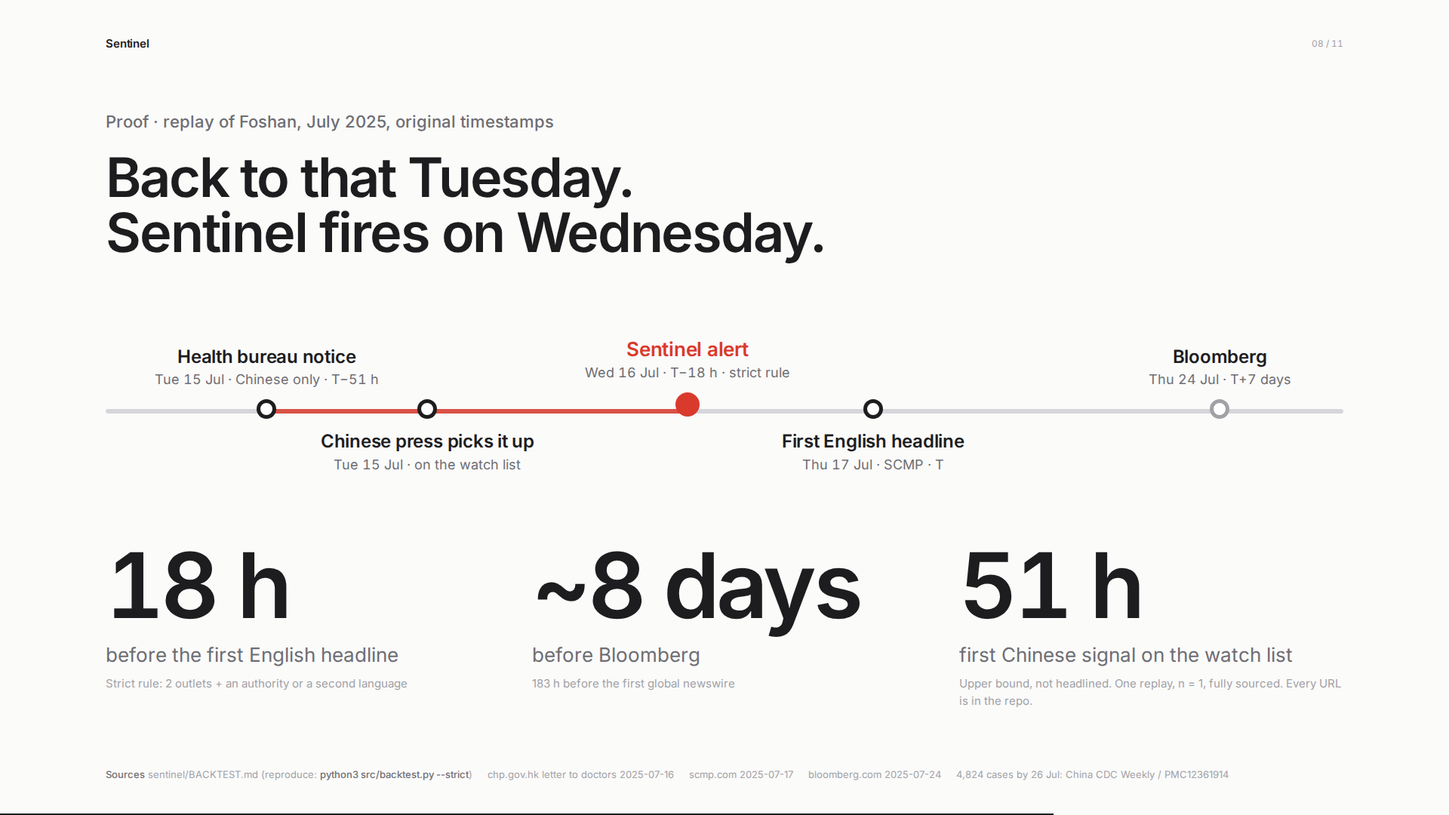
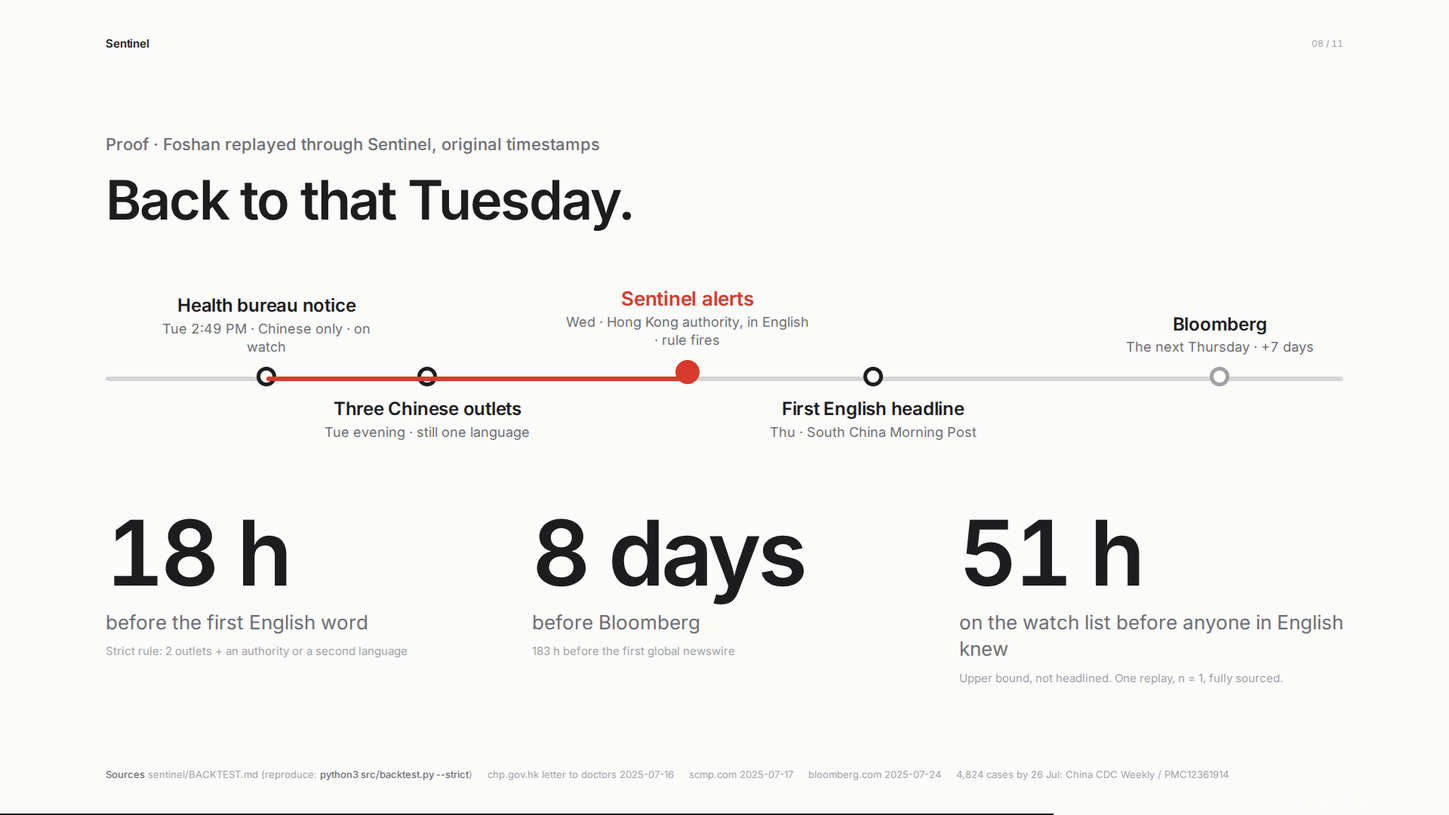
Deck: Keynote-style builds; dramatic Foshan backtest reveal; script beats
Claude-Session: https://claude.ai/code/session_01FUCurQPFnAXBDdE5fg9zhM

diff --git a/pitch/deck.html b/pitch/deck.html
@@ -116,6 +116,15 @@
   .impl ul { list-style: none; margin: 0; padding: 0; }
   .impl li { font-size: 21px; line-height: 1.4; color: var(--ink-2); padding: 13px 0; border-top: 1px solid var(--line); }
   .impl li b { color: var(--ink); font-weight: 600; }
+  /* builds */
+  .slide .b { opacity: 0; transform: translateY(10px); transition: opacity .35s ease, transform .35s ease; }
+  .slide .b.in { opacity: 1; transform: none; }
+  .slide .pt.b { transform: translateX(-50%) translateY(10px); }
+  .slide .pt.b.in { transform: translateX(-50%); }
+  .slide .axis .span.b { transform: scaleX(0); transform-origin: left; transition: transform .9s cubic-bezier(.2,.7,.2,1), opacity .2s; }
+  .slide .axis .span.b.in { transform: scaleX(1); }
+  .slide .lead .b { transition-duration: .5s; }
+  @media (prefers-reduced-motion: reduce) { .slide .b { transition: none; } }
   /* 7 */
   .bt { margin-top: 48px; }
   .axis { position: relative; height: 300px; }
@@ -182,9 +191,9 @@ And every insurer with travel, A&amp;H or supply-chain exposure in Guangdong fou
       <div class="zh">478 confirmed cases of chikungunya, a mosquito-borne virus. The Shunde District Health Bureau posts it. Nobody outside China reads it.</div>
     </div>
     <div class="steps">
-      <div class="step"><div class="t">T + 0 h</div><div class="w">District health bureau notice. <i>Chinese only.</i></div></div>
-      <div class="step"><div class="t">T + 51 h</div><div class="w">First English headline.</div></div>
-      <div class="step hot"><div class="t">T + 9 days</div><div class="w">Bloomberg. <i>This is when the insurance industry found out.</i></div></div>
+      <div class="step b"><div class="t">T + 0 h</div><div class="w">District health bureau notice. <i>Chinese only.</i></div></div>
+      <div class="step b"><div class="t">T + 51 h</div><div class="w">First English headline.</div></div>
+      <div class="step hot b"><div class="t">T + 9 days</div><div class="w">Bloomberg. <i>This is when the insurance industry found out.</i></div></div>
     </div>
   </div>
   <div class="foot"><span><b>Sources</b> Shunde District Health Bureau notice, 15 Jul 2025 (quoted by chinanews.com.cn, 2025-07-15 08:40 UTC)</span><span>First English mainstream: SCMP, 2025-07-17 10:00 UTC</span><span>Bloomberg, 24 Jul 2025 (GDELT first-seen)</span><span>Timeline: sentinel/BACKTEST.md</span></div>
@@ -314,28 +323,38 @@ Seven public feeds, all free, the ones the professionals actually watch: the Hur
   <div class="foot"><span><b>Sources</b> sentinel/src/feeds.py (feed list)</span><span>sentinel/README.md (stack)</span><span>sentinel/CONTRACT.md (data contract)</span></div>
 </section>
 
-<section class="slide" data-n="8" data-notes="Does it beat the headlines? We replayed Foshan with the original timestamps. Under our strict rule (two independent outlets plus an authority or a second language) Sentinel fires 18 hours before the first English headline and about eight days before Bloomberg. The first Chinese signal was on the watch list 51 hours out. One replay, fully sourced, reproducible from the repo.">
+<section class="slide" data-n="8" data-notes="[Slide opens EMPTY except the headline. Each → adds a beat. Speak slowly.]
+
+Let&#x27;s go back to that Tuesday and replay it, with the original timestamps, through Sentinel.
+
+→ Tuesday afternoon. The notice goes up. Chinese only. Sentinel puts it on the watch list. Nobody is alerted yet, because one source is not enough.
+→ Tuesday evening. Three Chinese outlets pick it up. Still one language. Still watching.
+→ Wednesday afternoon. Hong Kong&#x27;s health authority writes to its doctors, in English. Second language, an authority. The rule fires. [Pause.] Sentinel alerts.
+→ Thursday. The first English headline.
+→ [Pause.] And the following Thursday: Bloomberg. That&#x27;s when the industry found out.
+→ Eighteen hours before the first English word. Eight days before Bloomberg. And it was on the watch list fifty-one hours out. One replay, every URL in the repo, reproduce it with one command.">
   <div class="mark">Sentinel</div>
   <div class="num">08 / 11</div>
-  <p class="kicker">Proof · replay of Foshan, July 2025, original timestamps</p>
-  <h1 class="mid">Back to that Tuesday. Sentinel fires on Wednesday.</h1>
+  <p class="kicker">Proof · Foshan replayed through Sentinel, original timestamps</p>
+  <h1 class="mid">Back to that Tuesday.</h1>
   <div class="bt">
     <div class="axis">
-      <div class="span" style="left:13%;width:34%"></div>
-      <div class="pt above" style="left:13%"><div class="w">Health bureau notice</div><div class="t">Tue 15 Jul · Chinese only · T−51 h</div><div class="dot"></div></div>
-      <div class="pt below" style="left:26%"><div class="dot"></div><div class="w">Chinese press picks it up</div><div class="t">Tue 15 Jul · on the watch list</div></div>
-      <div class="pt sig above" style="left:47%"><div class="w">Sentinel alert</div><div class="t">Wed 16 Jul · T−18 h · strict rule</div><div class="dot"></div></div>
-      <div class="pt below" style="left:62%"><div class="dot"></div><div class="w">First English headline</div><div class="t">Thu 17 Jul · SCMP · T</div></div>
-      <div class="pt above faint" style="left:90%"><div class="w">Bloomberg</div><div class="t">Thu 24 Jul · T+7 days</div><div class="dot"></div></div>
-    </div>
+      <div class="pt above b" style="left:13%"><div class="w">Health bureau notice</div><div class="t">Tue 2:49 PM · Chinese only · on watch</div><div class="dot"></div></div>
+      <div class="pt below b" style="left:26%"><div class="dot"></div><div class="w">Three Chinese outlets</div><div class="t">Tue evening · still one language</div></div>
+      <div class="pt sig above b" style="left:47%"><div class="w">Sentinel alerts</div><div class="t">Wed · Hong Kong authority, in English · rule fires</div><div class="dot"></div></div>
+      <div class="span b" style="left:13%;width:34%"></div>
+      <div class="pt below b" style="left:62%"><div class="dot"></div><div class="w">First English headline</div><div class="t">Thu · South China Morning Post</div></div>
+      <div class="pt above faint b" style="left:90%"><div class="w">Bloomberg</div><div class="t">The next Thursday · +7 days</div><div class="dot"></div></div>
+</div>
     <div class="lead">
-      <div><div class="n">18 h</div><div class="cap">before the first English headline</div><div class="src">Strict rule: 2 outlets + an authority or a second language</div></div>
-      <div><div class="n">~8 days</div><div class="cap">before Bloomberg</div><div class="src">183 h before the first global newswire</div></div>
-      <div><div class="n">51 h</div><div class="cap">first Chinese signal on the watch list</div><div class="src">Upper bound, not headlined. One replay, n = 1, fully sourced. Every URL is in the repo.</div></div>
+      <div class="b"><div class="n">18 h</div><div class="cap">before the first English word</div><div class="src">Strict rule: 2 outlets + an authority or a second language</div></div>
+      <div class="b"><div class="n">8 days</div><div class="cap">before Bloomberg</div><div class="src">183 h before the first global newswire</div></div>
+      <div class="b"><div class="n">51 h</div><div class="cap">on the watch list before anyone in English knew</div><div class="src">Upper bound, not headlined. One replay, n = 1, fully sourced.</div></div>
     </div>
   </div>
   <div class="foot"><span><b>Sources</b> sentinel/BACKTEST.md (reproduce: <b>python3 src/backtest.py --strict</b>)</span><span>chp.gov.hk letter to doctors 2025-07-16</span><span>scmp.com 2025-07-17</span><span>bloomberg.com 2025-07-24</span><span>4,824 cases by 26 Jul: China CDC Weekly / PMC12361914</span></div>
 </section>
+
 
 <!-- 8 · WHY NOW / WHY CHUBB -->
 <section class="slide" data-n="9" data-notes="Why now? Chubb&#x27;s own shareholder letter says it&#x27;s investing in data and AI to get faster in underwriting and claims. And a language model can now read a Chinese bulletin and an NHC advisory in one pass, for cents. Sentinel sits on top of the feeds Chubb already buys, inside Chubb&#x27;s own cloud. Exposure data never leaves.">
@@ -410,10 +429,17 @@ Thank you.
   function show(n) {
     i = Math.max(0, Math.min(slides.length - 1, n));
     slides.forEach((s, k) => s.classList.toggle('on', k === i));
+    if (n !== undefined) slides[i].querySelectorAll('.b').forEach(e => e.classList.remove('in'));
     bar.style.width = ((i + 1) / slides.length * 100) + '%';
     history.replaceState(null, '', '#' + (i + 1));
     if (typeof paintNotes === 'function') paintNotes();
   }
+
+  // builds: reveal .b elements in order before advancing
+  function pending() { return [...slides[i].querySelectorAll('.b:not(.in)')]; }
+  function shown() { return [...slides[i].querySelectorAll('.b.in')]; }
+  function next() { const p = pending(); if (p.length) { p[0].classList.add('in'); paintNotes(); } else show(i + 1); }
+  function prev() { const sh = shown(); if (sh.length) { sh[sh.length - 1].classList.remove('in'); } else { show(i - 1); slides[i].querySelectorAll('.b').forEach(e => e.classList.add('in')); } }
   function fit() {
     const s = Math.min(innerWidth / 1920, innerHeight / 1080);
     document.getElementById('stage').style.setProperty('--s', s);
@@ -429,7 +455,7 @@ Thank you.
 .h{display:flex;justify-content:space-between;color:#8e8e93;font-size:18px;margin-bottom:24px}.h b{color:#fff;font-size:64px;font-variant-numeric:tabular-nums}
 pre{white-space:pre-wrap;font:inherit;margin:0}.nx{margin-top:36px;padding-top:18px;border-top:1px solid #333;color:#8e8e93;font-size:20px}
 .k{position:fixed;bottom:16px;left:56px;color:#555;font-size:14px}</style>
-<div class=h><div>Slide <b>${i+1}</b> / 11</div><div id=c style="font-size:64px;color:#fff;font-variant-numeric:tabular-nums">0:00</div></div>
+<div class=h><div>Slide <b>${i+1}</b> / 11 ${pending().length ? '· <span style="color:#d93a2b">' + pending().length + ' builds left (→)</span>' : ''}</div><div id=c style="font-size:64px;color:#fff;font-variant-numeric:tabular-nums">0:00</div></div>
 <pre>${t}</pre><div class=nx>Next: ${nx.replace(/</g,'&lt;')}</div>
 <div class=k>Timer starts when this window opens · marks: 1:05 leave slide 3 · 2:00 back on deck · 2:50 the ask</div>`;
   }
@@ -438,8 +464,8 @@ pre{white-space:pre-wrap;font:inherit;margin:0}.nx{margin-top:36px;padding-top:1
   function openNotes() { pw = window.open('', 'sentinel-presenter', 'width=900,height=700'); if (pw) { pw.__t0 = pw.__t0 || Date.now(); paintNotes(); } }
   addEventListener('resize', fit); fit(); show(i);
   addEventListener('keydown', e => {
-    if (['ArrowRight', ' ', 'PageDown', 'Enter'].includes(e.key)) { e.preventDefault(); show(i + 1); }
-    else if (['ArrowLeft', 'PageUp', 'Backspace'].includes(e.key)) { e.preventDefault(); show(i - 1); }
+    if (['ArrowRight', ' ', 'PageDown', 'Enter'].includes(e.key)) { e.preventDefault(); next(); }
+    else if (['ArrowLeft', 'PageUp', 'Backspace'].includes(e.key)) { e.preventDefault(); prev(); }
     else if (e.key === 'Home') show(0);
     else if (e.key === 'End') show(slides.length - 1);
     else if (e.key.toLowerCase() === 'f') { document.fullscreenElement ? document.exitFullscreen() : document.documentElement.requestFullscreen(); }
@@ -447,7 +473,7 @@ pre{white-space:pre-wrap;font:inherit;margin:0}.nx{margin-top:36px;padding-top:1
     else if (e.key === '0') show(10);
     else if (e.key.toLowerCase() === 'n') openNotes();
   });
-  addEventListener('click', e => { if (e.clientX > innerWidth * 0.66) show(i + 1); else if (e.clientX < innerWidth * 0.2) show(i - 1); });
+  addEventListener('click', e => { if (e.clientX > innerWidth * 0.66) next(); else if (e.clientX < innerWidth * 0.2) prev(); });
   window.deckGo = show;
 })();
 </script>

diff --git a/sentinel/ui/deck/index.html b/sentinel/ui/deck/index.html
@@ -116,6 +116,15 @@
   .impl ul { list-style: none; margin: 0; padding: 0; }
   .impl li { font-size: 21px; line-height: 1.4; color: var(--ink-2); padding: 13px 0; border-top: 1px solid var(--line); }
   .impl li b { color: var(--ink); font-weight: 600; }
+  /* builds */
+  .slide .b { opacity: 0; transform: translateY(10px); transition: opacity .35s ease, transform .35s ease; }
+  .slide .b.in { opacity: 1; transform: none; }
+  .slide .pt.b { transform: translateX(-50%) translateY(10px); }
+  .slide .pt.b.in { transform: translateX(-50%); }
+  .slide .axis .span.b { transform: scaleX(0); transform-origin: left; transition: transform .9s cubic-bezier(.2,.7,.2,1), opacity .2s; }
+  .slide .axis .span.b.in { transform: scaleX(1); }
+  .slide .lead .b { transition-duration: .5s; }
+  @media (prefers-reduced-motion: reduce) { .slide .b { transition: none; } }
   /* 7 */
   .bt { margin-top: 48px; }
   .axis { position: relative; height: 300px; }
@@ -182,9 +191,9 @@ And every insurer with travel, A&amp;H or supply-chain exposure in Guangdong fou
       <div class="zh">478 confirmed cases of chikungunya, a mosquito-borne virus. The Shunde District Health Bureau posts it. Nobody outside China reads it.</div>
     </div>
     <div class="steps">
-      <div class="step"><div class="t">T + 0 h</div><div class="w">District health bureau notice. <i>Chinese only.</i></div></div>
-      <div class="step"><div class="t">T + 51 h</div><div class="w">First English headline.</div></div>
-      <div class="step hot"><div class="t">T + 9 days</div><div class="w">Bloomberg. <i>This is when the insurance industry found out.</i></div></div>
+      <div class="step b"><div class="t">T + 0 h</div><div class="w">District health bureau notice. <i>Chinese only.</i></div></div>
+      <div class="step b"><div class="t">T + 51 h</div><div class="w">First English headline.</div></div>
+      <div class="step hot b"><div class="t">T + 9 days</div><div class="w">Bloomberg. <i>This is when the insurance industry found out.</i></div></div>
     </div>
   </div>
   <div class="foot"><span><b>Sources</b> Shunde District Health Bureau notice, 15 Jul 2025 (quoted by chinanews.com.cn, 2025-07-15 08:40 UTC)</span><span>First English mainstream: SCMP, 2025-07-17 10:00 UTC</span><span>Bloomberg, 24 Jul 2025 (GDELT first-seen)</span><span>Timeline: sentinel/BACKTEST.md</span></div>
@@ -314,28 +323,38 @@ Seven public feeds, all free, the ones the professionals actually watch: the Hur
   <div class="foot"><span><b>Sources</b> sentinel/src/feeds.py (feed list)</span><span>sentinel/README.md (stack)</span><span>sentinel/CONTRACT.md (data contract)</span></div>
 </section>
 
-<section class="slide" data-n="8" data-notes="Does it beat the headlines? We replayed Foshan with the original timestamps. Under our strict rule (two independent outlets plus an authority or a second language) Sentinel fires 18 hours before the first English headline and about eight days before Bloomberg. The first Chinese signal was on the watch list 51 hours out. One replay, fully sourced, reproducible from the repo.">
+<section class="slide" data-n="8" data-notes="[Slide opens EMPTY except the headline. Each → adds a beat. Speak slowly.]
+
+Let&#x27;s go back to that Tuesday and replay it, with the original timestamps, through Sentinel.
+
+→ Tuesday afternoon. The notice goes up. Chinese only. Sentinel puts it on the watch list. Nobody is alerted yet, because one source is not enough.
+→ Tuesday evening. Three Chinese outlets pick it up. Still one language. Still watching.
+→ Wednesday afternoon. Hong Kong&#x27;s health authority writes to its doctors, in English. Second language, an authority. The rule fires. [Pause.] Sentinel alerts.
+→ Thursday. The first English headline.
+→ [Pause.] And the following Thursday: Bloomberg. That&#x27;s when the industry found out.
+→ Eighteen hours before the first English word. Eight days before Bloomberg. And it was on the watch list fifty-one hours out. One replay, every URL in the repo, reproduce it with one command.">
   <div class="mark">Sentinel</div>
   <div class="num">08 / 11</div>
-  <p class="kicker">Proof · replay of Foshan, July 2025, original timestamps</p>
-  <h1 class="mid">Back to that Tuesday. Sentinel fires on Wednesday.</h1>
+  <p class="kicker">Proof · Foshan replayed through Sentinel, original timestamps</p>
+  <h1 class="mid">Back to that Tuesday.</h1>
   <div class="bt">
     <div class="axis">
-      <div class="span" style="left:13%;width:34%"></div>
-      <div class="pt above" style="left:13%"><div class="w">Health bureau notice</div><div class="t">Tue 15 Jul · Chinese only · T−51 h</div><div class="dot"></div></div>
-      <div class="pt below" style="left:26%"><div class="dot"></div><div class="w">Chinese press picks it up</div><div class="t">Tue 15 Jul · on the watch list</div></div>
-      <div class="pt sig above" style="left:47%"><div class="w">Sentinel alert</div><div class="t">Wed 16 Jul · T−18 h · strict rule</div><div class="dot"></div></div>
-      <div class="pt below" style="left:62%"><div class="dot"></div><div class="w">First English headline</div><div class="t">Thu 17 Jul · SCMP · T</div></div>
-      <div class="pt above faint" style="left:90%"><div class="w">Bloomberg</div><div class="t">Thu 24 Jul · T+7 days</div><div class="dot"></div></div>
-    </div>
+      <div class="pt above b" style="left:13%"><div class="w">Health bureau notice</div><div class="t">Tue 2:49 PM · Chinese only · on watch</div><div class="dot"></div></div>
+      <div class="pt below b" style="left:26%"><div class="dot"></div><div class="w">Three Chinese outlets</div><div class="t">Tue evening · still one language</div></div>
+      <div class="pt sig above b" style="left:47%"><div class="w">Sentinel alerts</div><div class="t">Wed · Hong Kong authority, in English · rule fires</div><div class="dot"></div></div>
+      <div class="span b" style="left:13%;width:34%"></div>
+      <div class="pt below b" style="left:62%"><div class="dot"></div><div class="w">First English headline</div><div class="t">Thu · South China Morning Post</div></div>
+      <div class="pt above faint b" style="left:90%"><div class="w">Bloomberg</div><div class="t">The next Thursday · +7 days</div><div class="dot"></div></div>
+</div>
     <div class="lead">
-      <div><div class="n">18 h</div><div class="cap">before the first English headline</div><div class="src">Strict rule: 2 outlets + an authority or a second language</div></div>
-      <div><div class="n">~8 days</div><div class="cap">before Bloomberg</div><div class="src">183 h before the first global newswire</div></div>
-      <div><div class="n">51 h</div><div class="cap">first Chinese signal on the watch list</div><div class="src">Upper bound, not headlined. One replay, n = 1, fully sourced. Every URL is in the repo.</div></div>
+      <div class="b"><div class="n">18 h</div><div class="cap">before the first English word</div><div class="src">Strict rule: 2 outlets + an authority or a second language</div></div>
+      <div class="b"><div class="n">8 days</div><div class="cap">before Bloomberg</div><div class="src">183 h before the first global newswire</div></div>
+      <div class="b"><div class="n">51 h</div><div class="cap">on the watch list before anyone in English knew</div><div class="src">Upper bound, not headlined. One replay, n = 1, fully sourced.</div></div>
     </div>
   </div>
   <div class="foot"><span><b>Sources</b> sentinel/BACKTEST.md (reproduce: <b>python3 src/backtest.py --strict</b>)</span><span>chp.gov.hk letter to doctors 2025-07-16</span><span>scmp.com 2025-07-17</span><span>bloomberg.com 2025-07-24</span><span>4,824 cases by 26 Jul: China CDC Weekly / PMC12361914</span></div>
 </section>
+
 
 <!-- 8 · WHY NOW / WHY CHUBB -->
 <section class="slide" data-n="9" data-notes="Why now? Chubb&#x27;s own shareholder letter says it&#x27;s investing in data and AI to get faster in underwriting and claims. And a language model can now read a Chinese bulletin and an NHC advisory in one pass, for cents. Sentinel sits on top of the feeds Chubb already buys, inside Chubb&#x27;s own cloud. Exposure data never leaves.">
@@ -410,10 +429,17 @@ Thank you.
   function show(n) {
     i = Math.max(0, Math.min(slides.length - 1, n));
     slides.forEach((s, k) => s.classList.toggle('on', k === i));
+    if (n !== undefined) slides[i].querySelectorAll('.b').forEach(e => e.classList.remove('in'));
     bar.style.width = ((i + 1) / slides.length * 100) + '%';
     history.replaceState(null, '', '#' + (i + 1));
     if (typeof paintNotes === 'function') paintNotes();
   }
+
+  // builds: reveal .b elements in order before advancing
+  function pending() { return [...slides[i].querySelectorAll('.b:not(.in)')]; }
+  function shown() { return [...slides[i].querySelectorAll('.b.in')]; }
+  function next() { const p = pending(); if (p.length) { p[0].classList.add('in'); paintNotes(); } else show(i + 1); }
+  function prev() { const sh = shown(); if (sh.length) { sh[sh.length - 1].classList.remove('in'); } else { show(i - 1); slides[i].querySelectorAll('.b').forEach(e => e.classList.add('in')); } }
   function fit() {
     const s = Math.min(innerWidth / 1920, innerHeight / 1080);
     document.getElementById('stage').style.setProperty('--s', s);
@@ -429,7 +455,7 @@ Thank you.
 .h{display:flex;justify-content:space-between;color:#8e8e93;font-size:18px;margin-bottom:24px}.h b{color:#fff;font-size:64px;font-variant-numeric:tabular-nums}
 pre{white-space:pre-wrap;font:inherit;margin:0}.nx{margin-top:36px;padding-top:18px;border-top:1px solid #333;color:#8e8e93;font-size:20px}
 .k{position:fixed;bottom:16px;left:56px;color:#555;font-size:14px}</style>
-<div class=h><div>Slide <b>${i+1}</b> / 11</div><div id=c style="font-size:64px;color:#fff;font-variant-numeric:tabular-nums">0:00</div></div>
+<div class=h><div>Slide <b>${i+1}</b> / 11 ${pending().length ? '· <span style="color:#d93a2b">' + pending().length + ' builds left (→)</span>' : ''}</div><div id=c style="font-size:64px;color:#fff;font-variant-numeric:tabular-nums">0:00</div></div>
 <pre>${t}</pre><div class=nx>Next: ${nx.replace(/</g,'&lt;')}</div>
 <div class=k>Timer starts when this window opens · marks: 1:05 leave slide 3 · 2:00 back on deck · 2:50 the ask</div>`;
   }
@@ -438,8 +464,8 @@ pre{white-space:pre-wrap;font:inherit;margin:0}.nx{margin-top:36px;padding-top:1
   function openNotes() { pw = window.open('', 'sentinel-presenter', 'width=900,height=700'); if (pw) { pw.__t0 = pw.__t0 || Date.now(); paintNotes(); } }
   addEventListener('resize', fit); fit(); show(i);
   addEventListener('keydown', e => {
-    if (['ArrowRight', ' ', 'PageDown', 'Enter'].includes(e.key)) { e.preventDefault(); show(i + 1); }
-    else if (['ArrowLeft', 'PageUp', 'Backspace'].includes(e.key)) { e.preventDefault(); show(i - 1); }
+    if (['ArrowRight', ' ', 'PageDown', 'Enter'].includes(e.key)) { e.preventDefault(); next(); }
+    else if (['ArrowLeft', 'PageUp', 'Backspace'].includes(e.key)) { e.preventDefault(); prev(); }
     else if (e.key === 'Home') show(0);
     else if (e.key === 'End') show(slides.length - 1);
     else if (e.key.toLowerCase() === 'f') { document.fullscreenElement ? document.exitFullscreen() : document.documentElement.requestFullscreen(); }
@@ -447,7 +473,7 @@ pre{white-space:pre-wrap;font:inherit;margin:0}.nx{margin-top:36px;padding-top:1
     else if (e.key === '0') show(10);
     else if (e.key.toLowerCase() === 'n') openNotes();
   });
-  addEventListener('click', e => { if (e.clientX > innerWidth * 0.66) show(i + 1); else if (e.clientX < innerWidth * 0.2) show(i - 1); });
+  addEventListener('click', e => { if (e.clientX > innerWidth * 0.66) next(); else if (e.clientX < innerWidth * 0.2) prev(); });
   window.deckGo = show;
 })();
 </script>

diff --git a/sentinel/ui/index.html b/sentinel/ui/index.html
@@ -21,7 +21,55 @@ header{display:flex;align-items:center;justify-content:space-between;height:72px
 .seg button{padding:5px 16px;border-radius:7px;color:var(--ink-2);font-size:13px;transition:background .15s,color .15s}
 .seg button[aria-pressed=true]{background:#fff;color:var(--ink);box-shadow:0 1px 2px rgba(0,0,0,.08)}
 .right{display:flex;align-items:center;gap:20px;font-size:13px;color:var(--ink-2)}
-.live::before{content:"";display:inline-block;width:6px;height:6px;border-radius:50%;background:#34c759;margin-right:8px;vertical-align:1px}
+.live{display:inline-flex;align-items:center;gap:8px;white-space:nowrap;font-variant-numeric:tabular-nums;transition:color .3s}
+.live .dot{position:relative;width:6px;height:6px;border-radius:50%;background:#34c759;flex:none}
+.live .dot::after{content:"";position:absolute;inset:-3px;border-radius:50%;border:1px solid #34c759;animation:ping 2.4s ease-out infinite}
+.live .cd,.live .stats{color:var(--ink-3)}
+.live.flash{color:var(--ink)}
+.live.flash .msg{color:#1f8f3a}
+@keyframes ping{0%{transform:scale(.6);opacity:.9}100%{transform:scale(2.2);opacity:0}}
+.n{display:inline-block;font-variant-numeric:tabular-nums}
+/* ticker */
+.ticker{position:fixed;left:0;right:0;bottom:0;height:34px;background:rgba(251,251,250,.92);backdrop-filter:blur(10px);-webkit-backdrop-filter:blur(10px);border-top:1px solid var(--line);font-size:12.5px;color:var(--ink-2);z-index:900;display:none;overflow:hidden}
+body.tk .ticker{display:block}
+body.tk .wrap{padding-bottom:34px}
+.ticker .row{max-width:1360px;margin:0 auto;padding:0 48px;height:34px;display:flex;align-items:center;gap:14px;white-space:nowrap}
+.ticker .lbl{color:var(--ink-3);letter-spacing:.06em;font-size:11px;text-transform:uppercase;flex:none}
+.ticker .ent{display:flex;align-items:center;gap:10px;min-width:0;flex:1;transition:opacity .35s,transform .35s}
+.ticker .ent.out{opacity:0;transform:translateY(-6px)}
+.ticker .ag{font-weight:600;color:var(--ink);flex:none}
+.ticker .ent.red .ag{color:var(--accent)}
+.ticker .tx{overflow:hidden;text-overflow:ellipsis;min-width:0}
+.ticker .when{color:var(--ink-3);flex:none;margin-left:auto}
+@media (max-width:640px){.ticker .row{padding:0 16px}}
+/* replay */
+.replay{border:1px solid var(--line);border-radius:14px;padding:18px 22px 10px;margin-bottom:28px;background:#fff;display:none}
+.replay.on{display:block}
+.replay .hd{display:flex;justify-content:space-between;align-items:baseline;font-size:13px;color:var(--ink-2);margin-bottom:10px}
+.replay .hd b{color:var(--ink);font-weight:600}
+.replay .hd button{color:var(--ink-3)}
+.replay ol{list-style:none}
+.replay li{display:grid;grid-template-columns:118px 1fr 64px 52px;gap:14px;align-items:baseline;padding:7px 0;border-top:1px solid var(--line);font-size:13px;color:var(--ink-3);opacity:.35;transition:opacity .3s,color .3s;position:relative}
+.replay li.act,.replay li.done{opacity:1;color:var(--ink-2)}
+.replay li .st{font-weight:600;color:var(--ink-3);display:flex;align-items:center;gap:8px}
+.replay li.act .st,.replay li.done .st{color:var(--ink)}
+.replay li .st i{width:6px;height:6px;border-radius:50%;background:var(--line);flex:none;transition:background .3s}
+.replay li.act .st i{background:var(--accent);animation:ping2 1s ease-out infinite}
+.replay li.done .st i{background:#34c759}
+.replay li .sm{overflow:hidden;text-overflow:ellipsis;white-space:nowrap}
+.replay li .ms{text-align:right;font-variant-numeric:tabular-nums}
+.replay li .md{text-align:right;font-size:11px;letter-spacing:.04em;text-transform:uppercase}
+.replay li .md.claude{color:var(--accent)}
+.replay li .bar{position:absolute;left:0;bottom:-1px;height:1px;background:var(--accent);width:0}
+.replay li.act .bar{transition:width linear;width:100%}
+.replay li.done .bar{width:0;transition:none}
+@keyframes ping2{0%{box-shadow:0 0 0 0 rgba(217,58,43,.45)}100%{box-shadow:0 0 0 7px rgba(217,58,43,0)}}
+/* map motion */
+.mk-pulse{transform-box:fill-box;transform-origin:center;animation:mkp 2.4s ease-out infinite}
+@keyframes mkp{0%{transform:scale(1);opacity:.7}100%{transform:scale(3.6);opacity:0}}
+.band-in{animation:fadein 1.2s ease-out}
+@keyframes fadein{from{opacity:0}to{opacity:1}}
+@media (prefers-reduced-motion:reduce){.live .dot::after,.mk-pulse,.replay li.act .st i{animation:none}.band-in{animation:none}.ticker .ent{transition:none}}
 .menu{position:relative}
 .menu>button{padding:4px 8px;border-radius:6px;letter-spacing:2px;color:var(--ink-2)}
 .menu>button:hover{background:var(--hover)}
@@ -93,7 +141,7 @@ footer{padding:24px 0 40px;color:var(--ink-3);font-size:13px}
     <div class="brand">Sentinel</div>
     <div class="seg" id="lens" role="group" aria-label="Lens"></div>
     <div class="right">
-      <span class="live" id="live">Live</span>
+      <span class="live" id="live"><span class="dot"></span><span class="msg">Live</span><span class="cd" id="cd"></span><span class="stats" id="stats"></span></span>
       <div class="menu" id="menu">
         <button aria-label="More" aria-haspopup="true" id="menuBtn">•••</button>
         <ul>
@@ -101,6 +149,8 @@ footer{padding:24px 0 40px;color:var(--ink-3);font-size:13px}
           <li><button data-open="trace">Trace <kbd>T</kbd></button></li>
           <li><button data-open="runs">Run log</button></li>
           <li><button data-open="backtest">Backtest <kbd>B</kbd></button></li>
+          <li><button data-open="replay">Replay this cycle <kbd>P</kbd></button></li>
+          <li><button data-open="ticker">Activity strip <kbd>L</kbd></button></li>
         </ul>
       </div>
     </div>
@@ -108,10 +158,11 @@ footer{padding:24px 0 40px;color:var(--ink-3);font-size:13px}
   <section class="hero"><div class="big" id="heroBig">&nbsp;</div><div class="sub" id="heroSub">&nbsp;</div></section>
   <section class="stage">
     <div><ul class="list" id="list"></ul><div class="quiet" id="quiet"></div></div>
-    <div class="detail" id="detail"></div>
+    <div><div class="replay" id="replay"></div><div class="detail" id="detail"></div></div>
   </section>
   <footer id="foot">Synthetic demo book · not real policies</footer>
 </div>
+<div class="ticker" id="ticker" aria-live="off"><div class="row"><span class="lbl">Activity</span><div class="ent" id="tkEnt"></div></div></div>
 <div class="sheet" id="sheet"><div class="panel" id="panel"></div></div>
 <script src="https://cdnjs.cloudflare.com/ajax/libs/leaflet/1.9.4/leaflet.min.js"></script>
 <script>

diff --git a/pitch/PITCH.md b/pitch/PITCH.md
@@ -70,11 +70,19 @@ So we built that."
 [Point, don't read.]
 "Seven public feeds, all free, the ones the professionals watch: the National Hurricane Center, the UN's disaster alert system, the US Geological Survey, the World Health Organization, plus local news in six languages. One Python program runs nine agents every ten minutes. It works offline, and everything on screen today is real data."
 
-## 2:25 – 2:40 · Slide 8 · Proof
+## 2:25 – 2:40 · Slide 8 · Proof (the dramatic beat)
 
-"Does it beat the headlines? We replayed Foshan with the original timestamps. Under our strict rule, two independent outlets plus an authority or a second language, Sentinel fires 18 hours before the first English headline and about eight days before Bloomberg. The first Chinese signal was on the watch list 51 hours out. One replay, fully sourced, reproducible from the repo."
+[The slide opens with only the headline. Each → adds one point on the timeline. Slow down. Let each one land.]
 
-[If time is short, press **B** in the UI instead of narrating this slide: the backtest modal shows the same timeline.]
+"Let's go back to that Tuesday and replay it, with the original timestamps, through Sentinel."
+
+[→] "Tuesday, 2:49. The notice goes up. Chinese only. Sentinel puts it on the watch list. No alert yet: one source is never enough."
+[→] "Tuesday evening. Three Chinese outlets pick it up. Still one language. Still watching."
+[→] "Wednesday afternoon. Hong Kong's health authority writes to its doctors. In English. Second language, and an authority." [Beat.] "The rule fires. Sentinel alerts."
+[→ the red line draws] "That red line is the head start."
+[→] "Thursday: the first English headline."
+[→] "And the following Thursday: Bloomberg. That is when the industry found out."
+[→ → → the three numbers] "Eighteen hours before the first English word. Eight days before Bloomberg. Fifty-one hours on the watch list before anyone in English knew. Every URL is in the repo. One command reproduces it."
 
 ## 2:40 – 2:50 · Slide 9 · Why now, why Chubb
 
